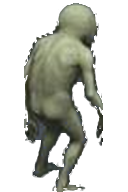
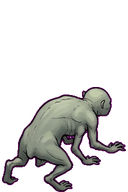
Turn the hero, the families and the floor's furniture to face the camera
Twenty-six of the ninety-seven iso files redrawn at the camera the floor
actually has: 26.6 degrees above, every figure turned 45 degrees onto a
screen diagonal instead of facing straight out of the frame.

That turn is what makes IsoFooting's mirroring mean something. A
bilaterally symmetric painting mirrors to itself, so until now the facing
model was decorative; `_s` is painted walking down-left and `_n` up-right,
and the other two directions are those files flipped.

The generator does not respect a grid it was not going to respect: three
sheets came back 4x2, 4x3 and 2-columns-of-uneven-height when 2xN was
asked for, and one dropped the treasure chest entirely. Uniform cell
division then straddles two subjects, which `cutout_lib.stowaways` caught
on the swarm rather than installing an ogre's head on top of it. Rows are
cropped to what the sheet actually drew and installed a row at a time.

REDO_CLEARED comes back, exactly as the note left in D122 said it should:
97 files cannot be redrawn in one sitting, and without it the prompt sheet
keeps asking for what is already done while dropping the directory rule
would stop it asking for the rest. 70 creatures and the chest remain.

42 tests pass; the stand-point invariant holds on every new file, which is
the one that matters for a turned figure.

Claude-Session: https://claude.ai/code/session_016Fdbt4ngzhze1PpWfEmZ79

diff --git a/ART_PROMPTS.md b/ART_PROMPTS.md
@@ -8,7 +8,7 @@ same reason: a hand-kept prompt sheet goes stale, and a prompt naming an enemy
 the game no longer has produces a painting with nowhere to go. The *why* is
 [ART.md](ART.md); that file is the shopping list; this one is the wording.
 
-**97 files can be generated.** The rest of the list cannot, and the sections below
+**71 files can be generated.** The rest of the list cannot, and the sections below
 say which and why — the expensive mistake is not a bad painting, it is a good
 painting of a thing that had to be computed.
 
@@ -27,7 +27,7 @@ painting of a thing that had to be computed.
    stronger constraint on palette and line weight than any adjective. `main_menu.jpg`
    is what a request without it looks like.
 3. **Paste the style block below unchanged, then one subject line.** Do not
-   improve it between images. Its job is to be identical 97 times.
+   improve it between images. Its job is to be identical 71 times.
 
 ```
 Painted dark-fantasy storybook illustration, in the style of the attached reference image.
@@ -123,37 +123,7 @@ Nothing to generate here — all 3 present.
 
 ## Tier 8a — isometric figures
 
-A small figure seen from the ISOMETRIC CAMERA THIS GAME ACTUALLY USES, which is not a head-on view. The floor tile is 116x58 - exactly 2:1 - so the camera looks DOWN at the floor from about 27 degrees above it. Draw the figure from that height: you see the top of its head and its shoulders, its feet are further down the frame than a head-on view would put them, and the ground it stands on would read as a flattened diamond rather than a line. It is also TURNED: the four walking directions all run diagonally across the screen, so the figure faces a DIAGONAL, three-quarter, never straight out of the frame. IT FACES DOWN AND TO THE LEFT - toward the camera and to the viewer's left, at 45 degrees, so the viewer sees the front of it and its left-hand side at once. Standing on nothing, on a flat even field for the matte: the feet must be the lowest painted pixel and there must be no ground, no shadow, no plinth and no scenery under it. Mid-value and lit from above and in front, clearly lighter than the floor across most of the body, with real interior: cloth, metal, skin, a face.
-
-**Generate this tier as ONE image, not 20.** Two columns and one row per figure. LEFT column: the figure walking TOWARD the camera and to the viewer's LEFT (down-left, 45 degrees). RIGHT column: the SAME figure walking AWAY and to the viewer's RIGHT (up-right, 45 degrees) — seen from behind and above, one character turned around, not a second character, same size and colours and silhouette width. THOSE TWO ANGLES ARE NOT NEGOTIABLE: the game mirrors each file to get the other two of the four walking directions (`IsoFooting.facing_mirrored`), so a figure drawn facing straight out of the frame mirrors to itself and the mirror does nothing, and a figure drawn on the WRONG diagonal walks sideways on half the compass. Flat even background of a single colour that appears nowhere in the subject, nothing touching a cell edge. Install: `godot --headless --script tools/install_sheet.gd -- iso_figures <sheet.png> --key`
-Cells in the order of the table below, left to right then top to bottom.
-
-**20 to RE-ROLL** — these files exist and are wrong. Same style block and same subject line as a first draft; what is on disk is not a constraint on what comes back.
-
-*All 20 have the same defect: HEAD-ON, and the floor is isometric — redraw at the camera's own angle (see the brief)..*
-
-| save as | size | subject |
-|---|---|---|
-| `iso/hero_s.png` | 128x192 | The player, facing the camera. Standing still: this is the pose the floor draws whenever she is not mid-step. |
-| `iso/hero_n.png` | 128x192 | The player, walking away. Standing still. |
-| `iso/hero_s_a.png` | 128x192 | The player facing the camera, mid-stride with her LEFT leg leading. Same character, same cloak, same colours and the same height as `hero_s.png` — only the legs and the swing of the cloak move. Her feet must still be the lowest painted pixel: this pose is anchored exactly as the standing one is, and a stride drawn with a raised foot at the bottom of the canvas walks along a floor it is sunk into. |
-| `iso/hero_s_b.png` | 128x192 | The player facing the camera, mid-stride with her RIGHT leg leading. Same character, same cloak, same colours and the same height as `hero_s.png` — only the legs and the swing of the cloak move. Her feet must still be the lowest painted pixel: this pose is anchored exactly as the standing one is, and a stride drawn with a raised foot at the bottom of the canvas walks along a floor it is sunk into. |
-| `iso/hero_n_a.png` | 128x192 | The player walking away, mid-stride with her LEFT leg leading. Same character, same cloak, same colours and the same height as `hero_n.png` — only the legs and the swing of the cloak move. Her feet must still be the lowest painted pixel: this pose is anchored exactly as the standing one is, and a stride drawn with a raised foot at the bottom of the canvas walks along a floor it is sunk into. |
-| `iso/hero_n_b.png` | 128x192 | The player walking away, mid-stride with her RIGHT leg leading. Same character, same cloak, same colours and the same height as `hero_n.png` — only the legs and the swing of the cloak move. Her feet must still be the lowest painted pixel: this pose is anchored exactly as the standing one is, and a stride drawn with a raised foot at the bottom of the canvas walks along a floor it is sunk into. |
-| `iso/mon_swarm_s.png` | 128x192 | A swarm, facing the camera. It IS the fight this tile becomes, so it must match the arena's swarm (D85). |
-| `iso/mon_swarm_n.png` | 128x192 | The same swarm, from behind. |
-| `iso/mon_brute_s.png` | 128x192 | A brute, facing the camera. It IS the fight this tile becomes, so it must match the arena's brute (D85). |
-| `iso/mon_brute_n.png` | 128x192 | The same brute, from behind. |
-| `iso/mon_caster_s.png` | 128x192 | A caster, facing the camera. It IS the fight this tile becomes, so it must match the arena's caster (D85). |
-| `iso/mon_caster_n.png` | 128x192 | The same caster, from behind. |
-| `iso/wander_0_s.png` | 128x192 | Wanderer design 0, facing the camera — something else walking the floor. |
-| `iso/wander_0_n.png` | 128x192 | Wanderer design 0, from behind. |
-| `iso/wander_1_s.png` | 128x192 | Wanderer design 1, facing the camera — something else walking the floor. |
-| `iso/wander_1_n.png` | 128x192 | Wanderer design 1, from behind. |
-| `iso/wander_2_s.png` | 128x192 | Wanderer design 2, facing the camera — something else walking the floor. |
-| `iso/wander_2_n.png` | 128x192 | Wanderer design 2, from behind. |
-| `iso/wander_3_s.png` | 128x192 | Wanderer design 3, facing the camera — something else walking the floor. |
-| `iso/wander_3_n.png` | 128x192 | Wanderer design 3, from behind. |
+Nothing to generate here — all 20 present.
 
 ## Tier 8c — the creature on the tile
 
@@ -243,20 +213,15 @@ Cells in the order of the table below, left to right then top to bottom.
 
 A small object or prop seen in three-quarter ISOMETRIC view from slightly above, standing on nothing, on a flat even field for the matte, anchored by its base. Same lighting and same value rule as Tier 8a: clearly lighter than the floor, lit from the upper left, real material. No ground, no shadow, no scenery.
 
-**Generate this tier as ONE image, not 7.** One row of seven, in the order of the table below. Flat even background, nothing touching a cell edge. THE THREE FIGHT MARKERS ARE THE WHOLE POINT OF THIS SHEET and they are why it is drawn as a set: today `combat`, `elite` and `boss` are the same silhouette to the pixel, so the floor cannot tell you whether the room ahead is a trash fight or the thing that ends the run, and that is the one decision the map exists to support. Give the three visibly ESCALATING silhouettes — bigger, taller, more of it — not three tints of one shape. Install: `godot --headless --script tools/install_sheet.gd -- iso_furniture <sheet.png>`
-Cells in the order of the table below, left to right then top to bottom.
+**Generate these as ONE image, not 1.** A 1x1 grid, cells in the order of the table below, left to right then top to bottom, flat even background, nothing touching a cell edge. This is a RE-ROLL of 1 of this tier's 7 files: the rest are already installed and are the reference, so match the set on disk for weight, fill and how much of its cell the shape uses. Install: `godot --headless --script tools/install_sheet.gd -- iso_furniture <sheet.png> --only=treasure`
 
-**7 to RE-ROLL** — these files exist and are wrong. Same style block and same subject line as a first draft; what is on disk is not a constraint on what comes back.
+**1 to RE-ROLL** — these files exist and are wrong. Same style block and same subject line as a first draft; what is on disk is not a constraint on what comes back.
 
-*All 7 have the same defect: HEAD-ON, and the floor is isometric — redraw at the camera's own angle (see the brief)..*
+| save as | size | what is wrong with the one we have |
+|---|---|---|
+| `iso/treasure.png` | 128x192 | HEAD-ON, and the floor is isometric — redraw at the camera's own angle (see the brief). |
 
 | save as | size | subject |
 |---|---|---|
-| `iso/combat.png` | 128x192 | An ordinary fight waiting on this tile. |
-| `iso/elite.png` | 128x192 | A harder fight — bigger than `combat.png` at a glance. |
-| `iso/boss.png` | 128x192 | The floor's boss — unmistakably the biggest of the three. |
-| `iso/shop.png` | 128x192 | A merchant's stall, nobody behind it. |
-| `iso/rest.png` | 128x192 | A campfire. A light source, so it is the one thing here that glows. |
-| `iso/event.png` | 128x192 | A standing rune-stone. Something to read, not to fight. |
 | `iso/treasure.png` | 128x192 | A chest, shut. |
 
